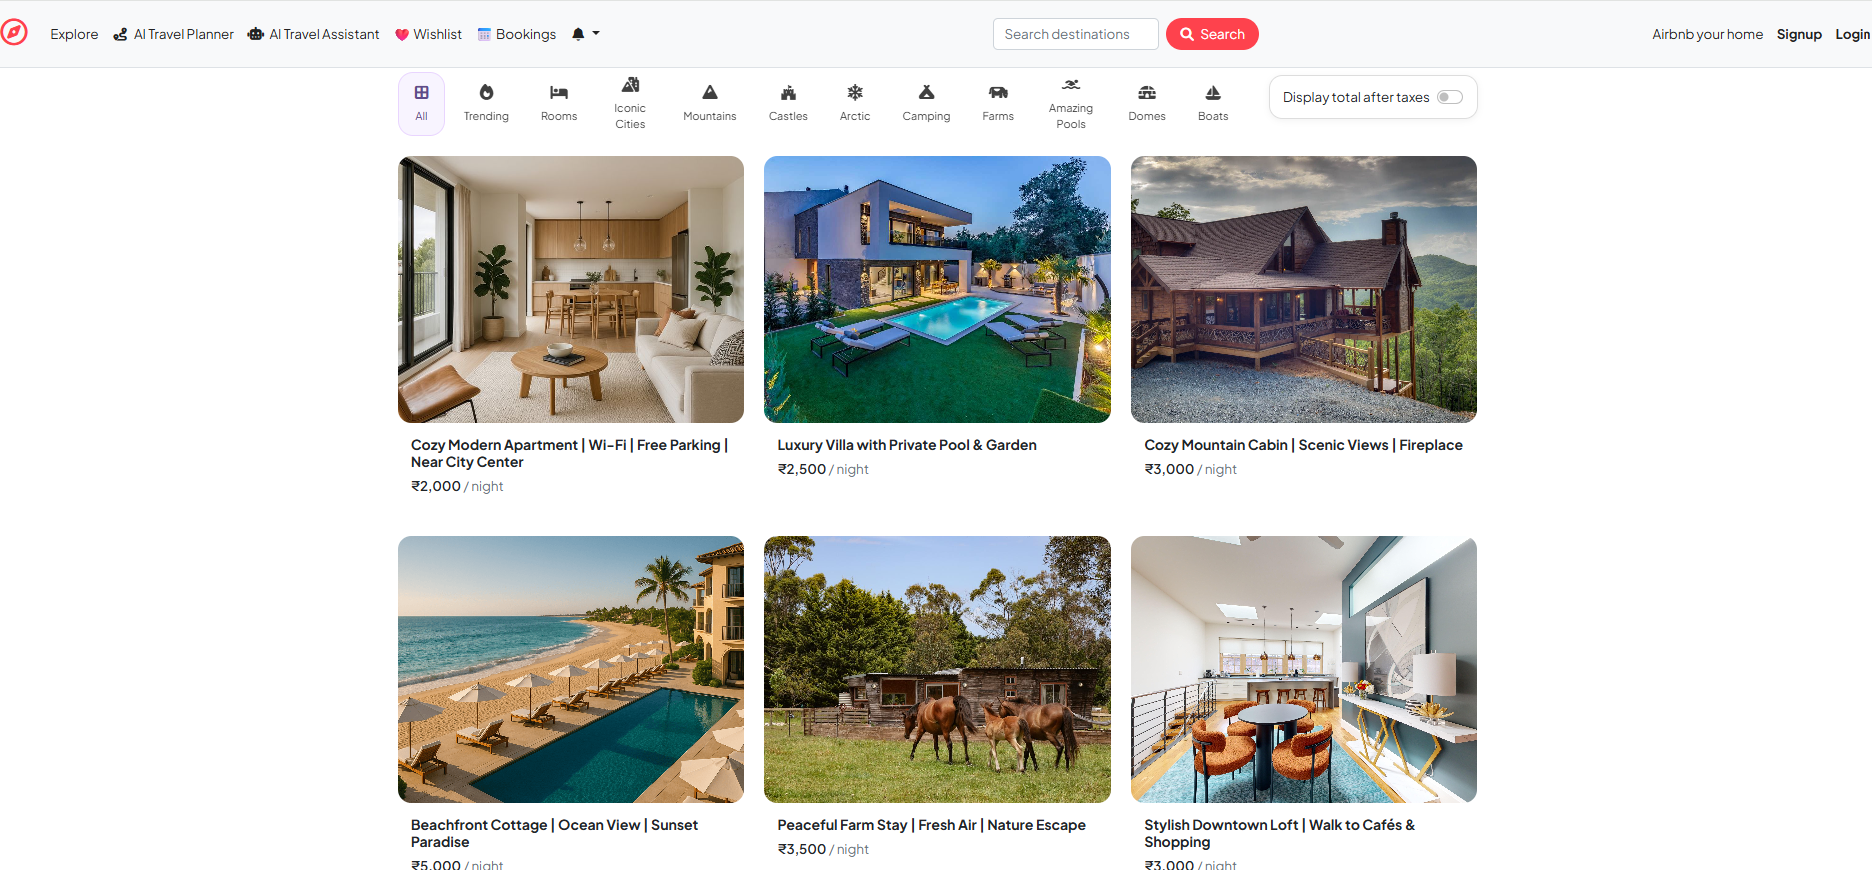
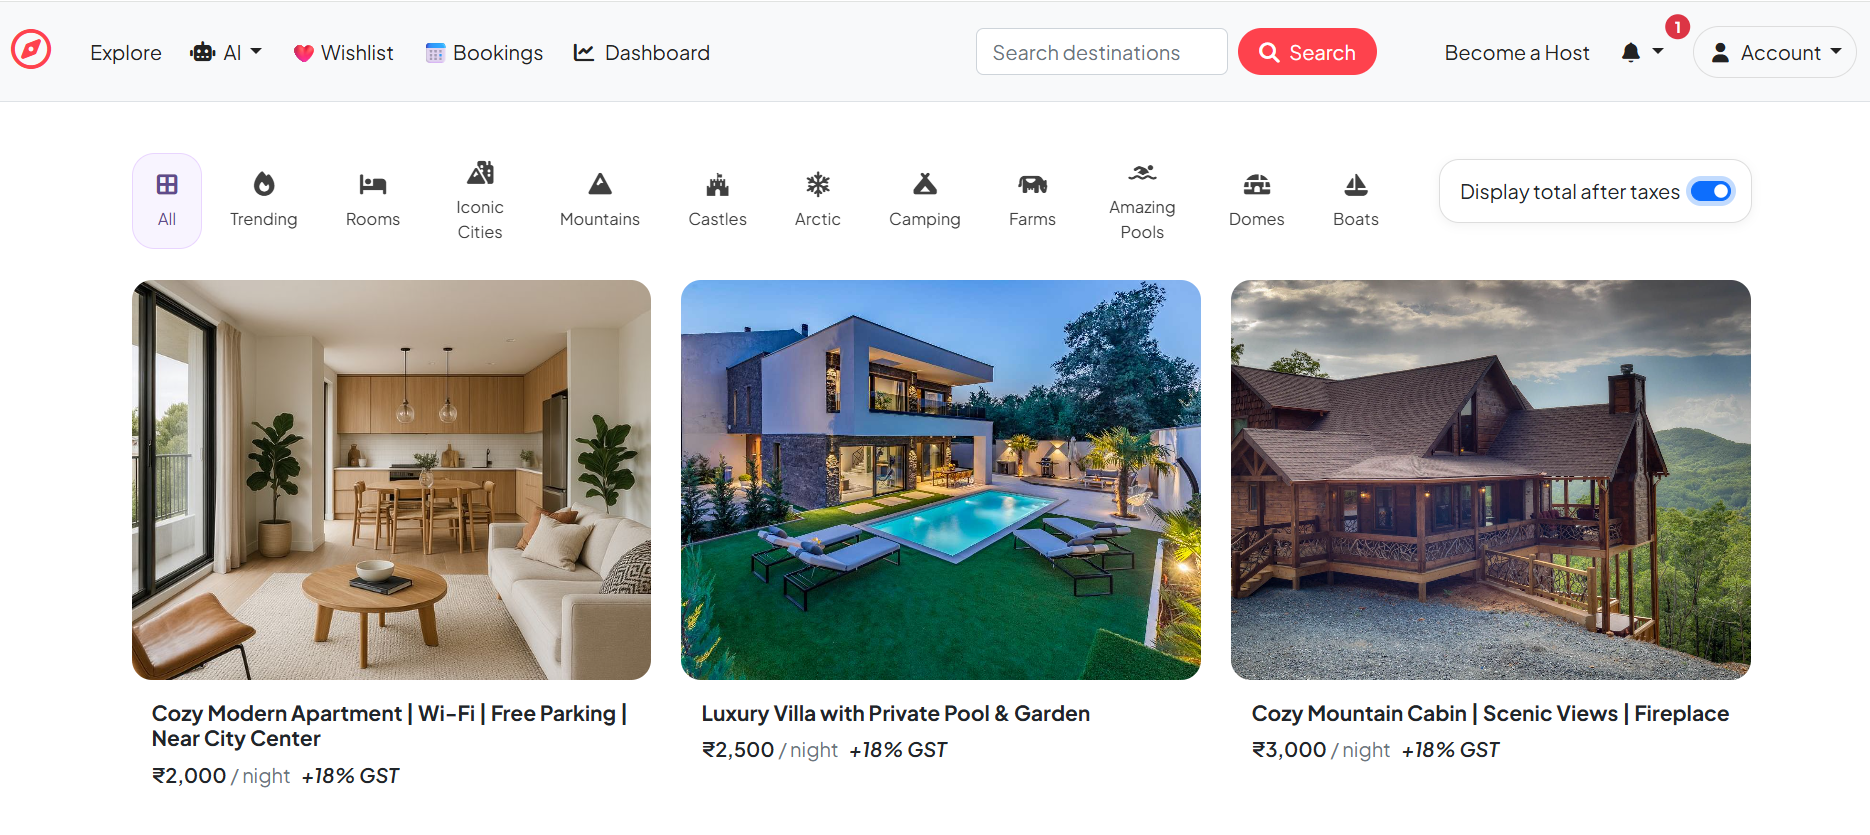
Enhanced navigation UI and updated README

diff --git a/public/css/style.css b/public/css/style.css
@@ -27,6 +27,19 @@ body{
     color: #222222 !important;
 }
 
+.navbar-nav{
+    align-items:center;
+}
+
+.navbar-nav .nav-link{
+    padding-left:.7rem !important;
+    padding-right:.7rem !important;
+}
+
+.navbar form{
+    margin-right:1rem;
+}
+
 /*footer*/
 .f-info-links a{
     text-decoration: none;
@@ -864,4 +877,24 @@ body{
 
     padding:2rem;
 
+}
+
+/* Premium Account Button */
+
+.account-menu{
+    border:1px solid #ddd;
+    border-radius:30px;
+    padding:8px 16px !important;
+    transition:.3s ease;
+}
+
+.account-menu:hover{
+    background:#fff;
+    box-shadow:0 6px 18px rgba(0,0,0,.10);
+}
+
+
+
+#notificationDropdown{
+    margin-right: 12px;
 }

diff --git a/app.js b/app.js
@@ -149,6 +149,9 @@ res.locals.isHost = !!isHost;
 //     let registeredUser = await User.register(fakeUser, "helloworld");
 //     res.send(registeredUser);
 // });
+app.get("/", (req, res) => {
+    res.redirect("/listings");
+});
 
 app.use("/listings", listingRouter);
 app.use("/listings/:id/reviews", reviewRouter);